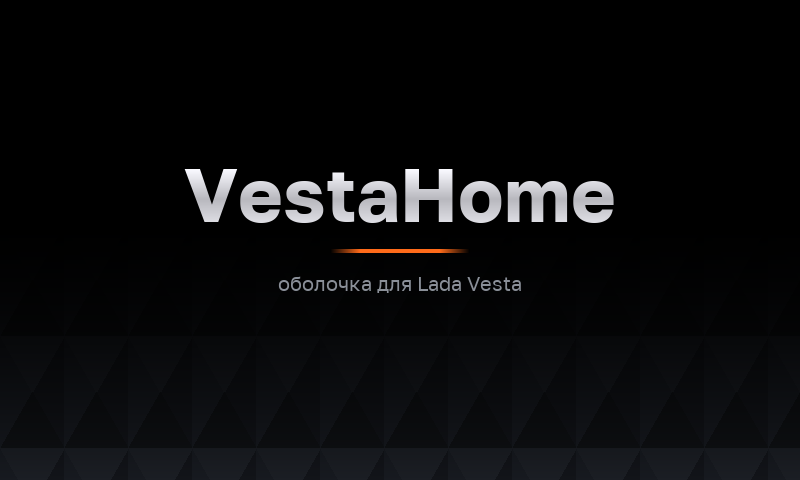
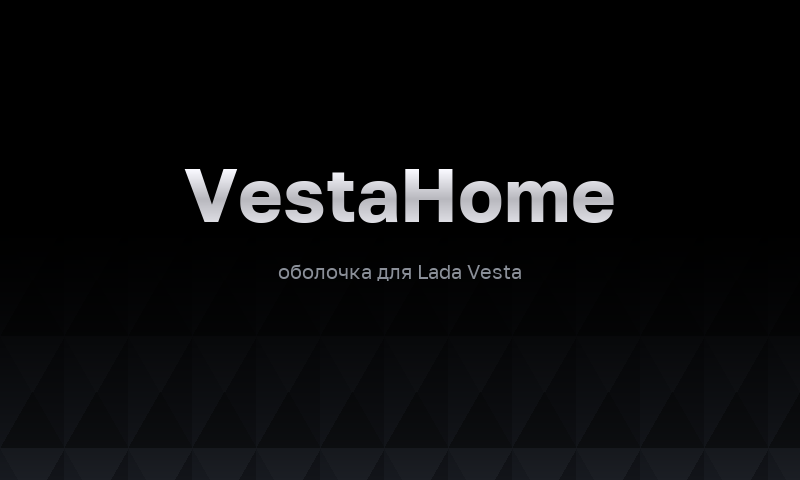
Boot picture: the saver's soft spot in VestaHome's accent instead of the orange line (the stub reads screen.accent); one's own picture as Skin\bootmy.png

Changed region(s): [[0.3438, 0.5312, 0.6562, 0.625], [0.4062, 0.5, 0.5938, 0.5312]]

diff --git a/VestaStub/native/stub.cpp b/VestaStub/native/stub.cpp
@@ -23,6 +23,7 @@
 #include <windows.h>
 #include <stdio.h>
 #include <stdlib.h>
+#include <math.h>
 #define STBI_NO_STDIO   // (the boot picture: PNG / JPEG, as VestaHome's photos - stb_image from VestaHome/native)
 #define STBI_ONLY_PNG
 #define STBI_ONLY_JPEG
@@ -55,12 +56,16 @@ static bool There(const wchar_t* p)
 // ---- the boot picture (the user 2026-10-26: not a black screen while VestaHome loads; the stock shell shows its
 // NEW_LOGO.PNG right after the firmware's logo). From the stub's start until VestaHome's window is in sight (or the
 // stock shell's - a fallback - or 90 s): the picture over the whole screen and three dots running under it. The
-// picture: VestaHome's Skin\boot.png (or .jpg) if there is one, else the stock shell's own NEW_LOGO.PNG on the unit.
+// picture: one's own Skin\bootmy.png (or .jpg) as it is; else VestaHome's Skin\boot.png with the soft spot of the
+// accent chosen in VestaHome (as on its saver: 16 %, the same shape and place; screen.accent of VestaHome.ini); else
+// the stock shell's own NEW_LOGO.PNG on the unit.
 static volatile bool s_splashEnd;
 static HBITMAP s_splashBmp;
 static int     s_splashDot;
 
-static bool SplashLoad(const wchar_t* path)   // the picture into an 800 x 480 DIB (centred, cut)
+static void SplashGlow(DWORD* px);
+
+static bool SplashLoad(const wchar_t* path, bool glow)   // the picture into an 800 x 480 DIB (centred, cut)
 {
     HANDLE f = CreateFile(path, GENERIC_READ, FILE_SHARE_READ, NULL, OPEN_EXISTING, 0, NULL);
     if (f == INVALID_HANDLE_VALUE)
@@ -100,9 +105,57 @@ static bool SplashLoad(const wchar_t* path)   // the picture into an 800 x 480 D
                 dst[y * 800 + x] = (DWORD)q[0] << 16 | (DWORD)q[1] << 8 | q[2];
             }
         }
+        if (glow)
+            SplashGlow(dst);
     }
     stbi_image_free(px);
     return s_splashBmp != NULL;
+}
+
+// The accent of VestaHome's settings (a Lada Vesta paint code, VestaHome's kAccents); Марс when not found.
+static COLORREF SplashAccent()
+{
+    static const struct { int code; COLORREF c; } kAcc[] = { { 130, RGB(0xff, 0x6b, 0x1a) }, { 195, RGB(0xdc, 0x3c, 0x3c) },
+        { 247, RGB(0xc3, 0xb8, 0x9c) }, { 372, RGB(0x72, 0xc0, 0x59) }, { 476, RGB(0x4f, 0x7a, 0xca) },
+        { 619, RGB(0xab, 0xba, 0xd8) }, { 691, RGB(0xee, 0xee, 0xee) } };
+    wchar_t path[MAX_PATH];
+    HuPath(path, L"\\SDMMC\\VestaHome\\VestaHome.ini");
+    HANDLE f = CreateFile(path, GENERIC_READ, FILE_SHARE_READ | FILE_SHARE_WRITE, NULL, OPEN_EXISTING, 0, NULL);
+    int code = 130;
+    if (f != INVALID_HANDLE_VALUE) {
+        static char buf[16384];
+        DWORD got = 0;
+        ReadFile(f, buf, sizeof(buf) - 1, &got, NULL);
+        CloseHandle(f);
+        buf[got] = 0;
+        const char* k = strstr(buf, "\nscreen.accent=");
+        if (k)
+            code = atoi(k + 15);
+    }
+    for (int i = 0; i < (int)(sizeof(kAcc) / sizeof(kAcc[0])); i++)
+        if (kAcc[i].code == code)
+            return kAcc[i].c;
+    return kAcc[0].c;
+}
+
+// The saver's spot (VestaHome: SaverSpot) over the picture: exp(-2.2 r^2) around (400, 192), 16 % of the accent.
+static void SplashGlow(DWORD* px)
+{
+    COLORREF c = SplashAccent();
+    int ar = GetRValue(c), ag = GetGValue(c), ab = GetBValue(c);
+    for (int y = 0; y < 480; y++)
+        for (int x = 0; x < 800; x++) {
+            double dx = (x - 400) / 330.0, dy = (y - 192) / 200.0;
+            int a = (int)(10486 * exp(-2.2 * (dx * dx + dy * dy)));   // of 65536
+            if (a <= 0)
+                continue;
+            DWORD p = px[y * 800 + x];
+            int r = p >> 16 & 255, g = p >> 8 & 255, b = p & 255;
+            r += ((ar - r) * a + 32768) >> 16;
+            g += ((ag - g) * a + 32768) >> 16;
+            b += ((ab - b) * a + 32768) >> 16;
+            px[y * 800 + x] = (DWORD)r << 16 | (DWORD)g << 8 | b;
+        }
 }
 
 static void SplashDots(HDC dc)   // three dots under the picture, the one lit runs
@@ -168,12 +221,13 @@ static LRESULT CALLBACK SplashProc(HWND hwnd, UINT msg, WPARAM wp, LPARAM lp)
 
 static DWORD WINAPI SplashThread(LPVOID)
 {
-    static const wchar_t* kPics[] = { L"\\SDMMC\\VestaHome\\Skin\\boot.png", L"\\SDMMC\\VestaHome\\Skin\\boot.jpg",
+    static const wchar_t* kPics[] = { L"\\SDMMC\\VestaHome\\Skin\\bootmy.png", L"\\SDMMC\\VestaHome\\Skin\\bootmy.jpg",
+                                      L"\\SDMMC\\VestaHome\\Skin\\boot.png",
                                       L"\\ResidentFlash\\navigation\\app\\res\\img\\Itelma\\MMC27\\Main\\NEW_LOGO.PNG" };
     wchar_t path[MAX_PATH];
     for (int i = 0; i < (int)(sizeof(kPics) / sizeof(kPics[0])) && !s_splashBmp; i++) {
         HuPath(path, kPics[i]);
-        SplashLoad(path);
+        SplashLoad(path, i == 2);   // the spot only on ours
     }
     WNDCLASS wc;
     memset(&wc, 0, sizeof(wc));

diff --git a/skin/make_boot.py b/skin/make_boot.py
@@ -3,8 +3,8 @@
 
 Shown by VestaStub from its start until VestaHome is in sight (three dots run under it, drawn by the stub). It
 follows the firmware's own boot logo (chrome on black, MAIN/4120/startup.raw) and leads to VestaHome's design
-(the user 2026-10-26): the same black, the name in the middle with a chrome-like light from above, a thin accent
-line under it, and VestaHome's rhombus mosaic coming up from the bottom. Full 24-bit colour.
+(the user 2026-10-26): the same black, the name in the middle with a chrome-like light from above, and VestaHome's
+rhombus mosaic coming up from the bottom; the stub lays the saver's soft spot of the accent over it. 24-bit colour.
 
 Usage: python VestaHome/skin/make_boot.py
 """
@@ -18,7 +18,6 @@ FONT = os.path.join(HERE, '..', 'VestaHome', 'VestaHome', 'Fonts', 'GolosText-Bo
 W, H = 800, 480
 CW, CH = 64, 112   # the mosaic's cell, as VestaHome's background and saver
 SHADES = {'left': (0x17, 0x1a, 0x20), 'right': (0x12, 0x14, 0x19), 'top': (0x1b, 0x1e, 0x24), 'bottom': (0x0f, 0x11, 0x14)}
-ACCENT = (0xFF, 0x6B, 0x1A)   # Mars, the default accent
 
 
 def mosaic():
@@ -65,13 +64,9 @@ def main():
             cp[x, y] = (c, c, min(255, c + 6))
     base = Image.composite(chrome, base, mask)
 
-    # the accent line under it, soft at its ends
+    # (no accent line: VestaStub lays the saver's spot of the accent chosen in VestaHome over the picture)
     d = ImageDraw.Draw(base)
-    ly, lw = 196 + th // 2 + 26, 140
-    for i in range(lw):
-        k = min(1.0, min(i, lw - 1 - i) / 30.0)
-        col = tuple(int(a * k) for a in ACCENT)
-        d.line([(W // 2 - lw // 2 + i, ly), (W // 2 - lw // 2 + i, ly + 3)], fill=col)
+    ly = 196 + th // 2 + 14
     small = ImageFont.truetype(FONT.replace('Bold', 'Regular'), 20)
     sub = 'оболочка для Lada Vesta'
     sb = small.getbbox(sub)
